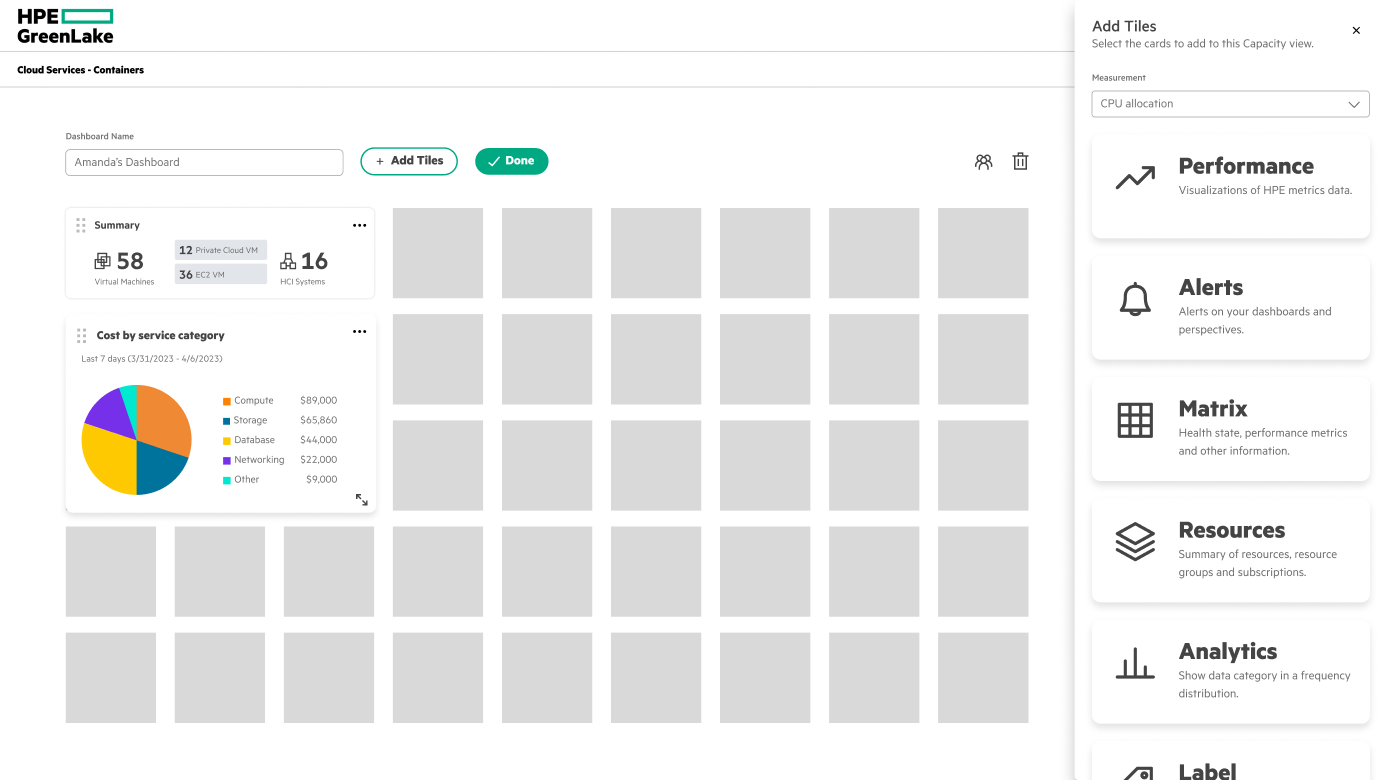
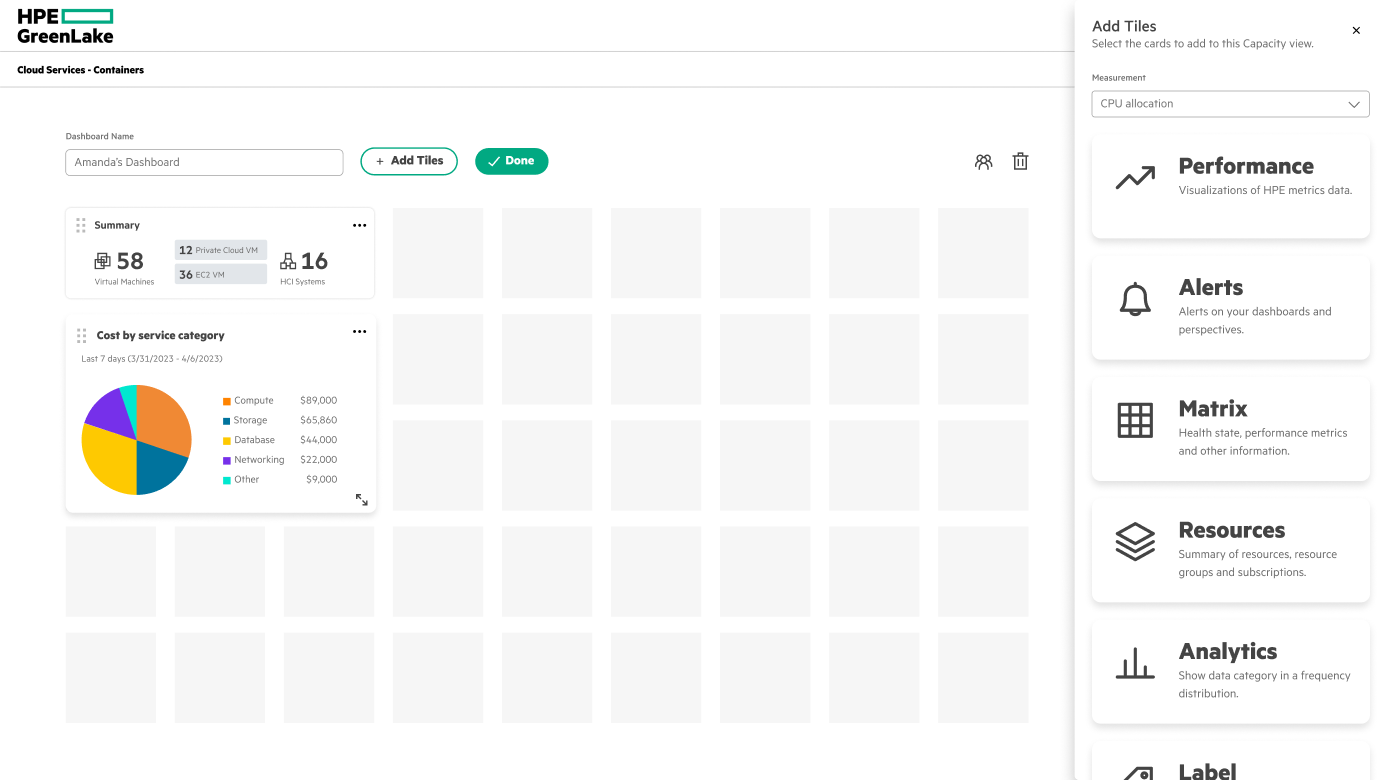
HPE Iterate + Final: v1→v2→v3 rounds with real images; Final showcase = 5 kept-feature video placeholders
- Iterate: Edit dashboard (tiled v1→v2→v3 with feedback/improvements), Color (v1→v2→v3), Style (v1→v2→v3); removed Preferred styling (overlapped Explore); add color/style/edit-v2 images
- Explore: structure adds Direction 3 (full-screen modal)
- Final showcase: rebuilt as the 5 kept capabilities, each a stacked title + full-width video placeholder (videos to come), framed as the customize-dashboard payoff
- Add research.png to participants voices; drop unused slides (final-customize, iterate-add/style/styling); refresh tiled-design/resize 2x

Changed region(s): [[0.031, 0.2462, 0.7441, 0.9538]]

diff --git a/case-study-hpe.html b/case-study-hpe.html
@@ -147,6 +147,9 @@ nav{position:fixed;top:0;left:0;right:0;z-index:300;height:54px;display:flex;ali
 .cs-voice:last-of-type{border-bottom:none;}
 .cs-voice::before{content:'\201C';position:absolute;left:0;top:18px;font-family:var(--font-display);font-size:var(--fs-3xl);font-weight:var(--fw-bold);line-height:.7;color:var(--accent);opacity:.45;}
 .cs-voice p{font-family:var(--font-display);font-size:clamp(var(--fs-md),2.4vw,var(--fs-lg));font-weight:var(--fw-regular);color:var(--ink);line-height:1.32;letter-spacing:-.02em;}
+.cs-voices-people{display:flex;justify-content:center;margin-top:28px;}
+.cs-research-art{width:100%;max-width:600px;height:auto;display:block;mix-blend-mode:multiply;}
+[data-theme="dark"] .cs-research-art{mix-blend-mode:screen;filter:invert(1);}
 .cs-voices-attr{margin-top:18px;display:flex;align-items:center;gap:9px;font-size:var(--fs-xs);font-weight:var(--fw-bold);letter-spacing:.12em;text-transform:uppercase;color:var(--ink-3);}
 .cs-voices-attr::before{content:'';width:22px;height:1.5px;background:var(--accent);flex-shrink:0;}
 
@@ -493,21 +496,34 @@ footer{background:var(--ink);color:var(--bg);padding:48px;display:flex;justify-c
 .cs-section--ondark{border-bottom:none;padding:0 0 392px;
   background:linear-gradient(180deg,
     var(--bg) 0,
-    #cdeae1 84px,#6fccb5 156px,#01A982 232px,#016b51 308px,#022c22 392px,
+    #cdeae1 70px,#9edbcb 108px,#6fccb5 146px,#38bb9c 182px,#01A982 218px,#018a6a 254px,#016b51 288px,#015844 320px,#024638 352px,#023528 374px,#022c22 392px,
     #022c22 calc(100% - 392px),
-    #024638 calc(100% - 274px),#016b51 calc(100% - 188px),#01A982 calc(100% - 116px),#6fccb5 calc(100% - 56px),#cdeae1 calc(100% - 18px),
+    #023528 calc(100% - 374px),#024638 calc(100% - 352px),#015844 calc(100% - 320px),#016b51 calc(100% - 288px),#018a6a calc(100% - 254px),#01A982 calc(100% - 218px),#38bb9c calc(100% - 182px),#6fccb5 calc(100% - 146px),#9edbcb calc(100% - 108px),#cdeae1 calc(100% - 70px),
     var(--bg) 100%);}
 [data-theme="dark"] .cs-section--ondark{
   background:linear-gradient(180deg,
     var(--bg) 0,
-    #04241a 84px,#0a6149 190px,#04503a 278px,#06291e 392px,
-    #06291e calc(100% - 392px),
-    #063a2b calc(100% - 262px),#0a6149 calc(100% - 150px),#04241a calc(100% - 62px),
+    #0a6149 78px,#095338 142px,#07452e 206px,#053826 268px,#052e1f 330px,#04241a 392px,
+    #04241a calc(100% - 392px),
+    #052e1f calc(100% - 330px),#053826 calc(100% - 268px),#07452e calc(100% - 206px),#095338 calc(100% - 142px),#0a6149 calc(100% - 78px),
     var(--bg) 100%);}
 .cs-section--ondark .cs-eyebrow{color:#9fe6cf;text-align:center;}
 .cs-section--ondark .cs-section-title{color:#fff;text-align:center;}
 .cs-section--ondark .cs-section-sub{color:rgba(245,245,245,.82);text-align:center;margin-left:auto;margin-right:auto;}
 .cs-section--ondark .cs-figure{box-shadow:0 20px 54px rgba(0,0,0,.30);}
+/* Final showcase — the 5 kept capabilities, each a video (alternating video/text rows) */
+.cs-final-features{display:flex;flex-direction:column;gap:128px;margin-top:108px;}
+.cs-final-feature{display:flex;flex-direction:column;align-items:center;text-align:center;gap:26px;}
+.cs-final-ftext{order:0;max-width:60ch;}
+.cs-final-media{order:1;width:100%;position:relative;aspect-ratio:16/9;border-radius:14px;overflow:hidden;box-shadow:0 20px 54px rgba(0,0,0,.32);}
+.cs-final-media video{width:100%;height:100%;object-fit:cover;display:block;}
+.cs-final-vph{position:absolute;inset:0;display:flex;flex-direction:column;align-items:center;justify-content:center;gap:12px;background:radial-gradient(120% 120% at 50% 32%,rgba(1,201,154,.16),transparent 60%),#0c1f18;color:rgba(255,255,255,.62);}
+.cs-final-vph svg{width:52px;height:52px;opacity:.75;}
+.cs-final-vph span{font-family:var(--font-mono);font-size:var(--fs-2xs);font-weight:var(--fw-bold);letter-spacing:.16em;text-transform:uppercase;}
+.cs-final-fnum{display:block;font-family:var(--font-mono);font-size:var(--fs-xs);font-weight:var(--fw-bold);letter-spacing:.14em;color:#9fe6cf;margin-bottom:12px;}
+.cs-final-ftitle{font-family:var(--font-display);font-size:clamp(var(--fs-lg),3vw,var(--fs-2xl));font-weight:var(--fw-semibold);letter-spacing:-.02em;line-height:1.1;color:#fff;margin-bottom:14px;}
+.cs-final-fdesc{font-size:var(--fs-base);color:rgba(245,245,245,.80);line-height:1.6;max-width:54ch;margin:0 auto;}
+@media(max-width:760px){.cs-final-features{gap:54px;}.cs-final-feature{gap:18px;}}
 /* showcase content stays hidden until the turn line has shrunk back to its resting spot (class added by JS; no-JS shows it) */
 .cs-section--ondark.final-gated .cs-wrap{opacity:0;transform:translateY(30px);transition:opacity .8s ease,transform .8s cubic-bezier(.22,1,.36,1);}
 .cs-section--ondark.final-gated.is-ready .cs-wrap{opacity:1;transform:none;}
@@ -520,8 +536,8 @@ footer{background:var(--ink);color:var(--bg);padding:48px;display:flex;justify-c
 @media(max-width:767px){
   .cs-turn-band{padding:250px 22px 72px;}
   .cs-section--ondark{padding-bottom:250px;
-    background:linear-gradient(180deg,var(--bg) 0,#cdeae1 58px,#6fccb5 108px,#01A982 158px,#016b51 208px,#022c22 250px,#022c22 calc(100% - 250px),#024638 calc(100% - 174px),#016b51 calc(100% - 118px),#01A982 calc(100% - 72px),#6fccb5 calc(100% - 36px),#cdeae1 calc(100% - 14px),var(--bg) 100%);}
-  [data-theme="dark"] .cs-section--ondark{background:linear-gradient(180deg,var(--bg) 0,#04241a 58px,#0a6149 122px,#04503a 178px,#06291e 250px,#06291e calc(100% - 250px),#063a2b calc(100% - 166px),#0a6149 calc(100% - 94px),#04241a calc(100% - 40px),var(--bg) 100%);}
+    background:linear-gradient(180deg,var(--bg) 0,#cdeae1 44px,#9edbcb 70px,#6fccb5 96px,#38bb9c 120px,#01A982 144px,#018a6a 168px,#016b51 190px,#015844 212px,#024638 232px,#023528 244px,#022c22 250px,#022c22 calc(100% - 250px),#023528 calc(100% - 244px),#024638 calc(100% - 232px),#015844 calc(100% - 212px),#016b51 calc(100% - 190px),#018a6a calc(100% - 168px),#01A982 calc(100% - 144px),#38bb9c calc(100% - 120px),#6fccb5 calc(100% - 96px),#9edbcb calc(100% - 70px),#cdeae1 calc(100% - 44px),var(--bg) 100%);}
+  [data-theme="dark"] .cs-section--ondark{background:linear-gradient(180deg,var(--bg) 0,#0a6149 50px,#095338 96px,#07452e 144px,#053826 196px,#04241a 250px,#04241a calc(100% - 250px),#053826 calc(100% - 196px),#07452e calc(100% - 144px),#095338 calc(100% - 96px),#0a6149 calc(100% - 50px),var(--bg) 100%);}
 }
 .cs-figure{margin:28px 0 0;border-radius:16px;border:1px solid var(--border);background:var(--surf);overflow:hidden;transition:background .4s,border-color .3s,transform .25s cubic-bezier(.22,1,.36,1);}
 .cs-figure:hover{transform:translateY(-2px);border-color:var(--border-h);}
@@ -564,7 +580,7 @@ footer{background:var(--ink);color:var(--bg);padding:48px;display:flex;justify-c
 .cs-iter-block:first-of-type{margin-top:28px;}
 .cs-iter-block-title{font-size:var(--fs-md);font-weight:var(--fw-semibold);color:var(--ink);letter-spacing:-.02em;line-height:1.2;margin-bottom:6px;}
 .cs-iter-block-title .cs-iter-block-round{display:inline-block;font-family:var(--font-mono);font-size:var(--fs-xs);font-weight:var(--fw-bold);letter-spacing:.1em;text-transform:uppercase;color:var(--accent);margin-right:10px;vertical-align:middle;}
-.cs-iter-block-text{font-size:var(--fs-sm);color:var(--ink-2);line-height:1.6;max-width:64ch;margin-bottom:4px;}
+.cs-iter-block-text{font-size:var(--p1-size);color:var(--ink-2);line-height:var(--p1-line);max-width:64ch;margin-bottom:4px;}
 .cs-iter-versions{display:flex;gap:20px;margin-top:20px;overflow-x:auto;overflow-y:hidden;padding:4px 4px 20px;scroll-snap-type:x mandatory;-webkit-overflow-scrolling:touch;scrollbar-width:thin;scrollbar-color:var(--border-h,#ccc) transparent;}
 .cs-iter-versions::-webkit-scrollbar{height:8px;}
 .cs-iter-versions::-webkit-scrollbar-track{background:transparent;}
@@ -876,7 +892,9 @@ transition:opacity .35s ease,transform .3s cubic-bezier(.22,1,.36,1);}
           <div class="cs-voice"><p>I should be able to add and remove charts myself.</p></div>
           <div class="cs-voice"><p>Can I change the colors and styling to my own preference?</p></div>
         </div>
-        <div class="cs-voices-attr reveal">Usability&#8209;test participants, pre&#8209;internship</div>
+        <div class="cs-voices-people reveal" aria-hidden="true">
+          <img src="assets/images/hpe/research.png" alt="" loading="lazy" class="cs-research-art">
+        </div>
 
         <div class="cs-sub reveal">
           <div class="cs-sub-label">The challenge</div>
@@ -1074,8 +1092,6 @@ transition:opacity .35s ease,transform .3s cubic-bezier(.22,1,.36,1);}
 
         <div class="cs-sub reveal">
           <div class="cs-sub-label">My iterations</div>
-          <div class="cs-sub-title">Cutting choices until they helped</div>
-          <div class="cs-sub-text">Across the rounds I reworked the customization flows. The pattern repeated: a critique would flag that I&rsquo;d given users <em>too much</em>, and the fix was almost always to constrain the options and add a visual cue.</div>
 
           <!-- Each round is a v1 → v2 carousel. To swap a placeholder for the real high-fidelity
                prototype screen, replace the `.cs-iter-version-img--ph` block with:
@@ -1091,19 +1107,8 @@ transition:opacity .35s ease,transform .3s cubic-bezier(.22,1,.36,1);}
           <!-- Round 1 · Edit dashboard -->
           <div class="cs-iter-block reveal">
             <div class="cs-iter-block-title">Edit dashboard</div>
-            <p class="cs-iter-block-text">For the edit canvas I built two structures as separate iterations &mdash; a freeform layout where charts go anywhere, and a tiled, snap&#8209;to&#8209;grid layout. Tiled won: it keeps the dashboard legible however it&rsquo;s filled, without the responsiveness and alignment issues freeform introduced.</p>
+            <p class="cs-iter-block-text">For the edit canvas I explored three directions &mdash; freeform, tiled, and a full&#8209;screen add&#8209;charts modal &mdash; and out of the first stakeholder meeting committed to tiled. From there it took three passes. v1: the grid stopped dead at the bottom, so users couldn&rsquo;t tell they could add more cards. v2 removed the header for a focused view and ran the grid past the window edge to signal room below &mdash; but the save button could overlap the charts, and new charts dropped in at 1&times;1 instead of 3&times;3. v3 fixed the layout: bigger default grid squares, the save button moved to the top right, and share / delete&#8209;dashboard pulled out of edit mode.</p>
             <div class="cs-iter-versions">
-              <figure class="cs-iter-version">
-                <div class="cs-iter-version-img" style="aspect-ratio:16/9;">
-                  <button class="cs-iter-zoom-out-btn" type="button" aria-label="Reset zoom"><svg viewBox="0 0 16 16" fill="none" stroke="currentColor" stroke-width="1.8" stroke-linecap="round" stroke-linejoin="round" aria-hidden="true"><path d="M2 8a6 6 0 1 0 1.7-4.2"/><polyline points="2 1.5 2 4 4.5 4"/></svg></button>
-                  <span class="cs-iter-zoom-hint" aria-hidden="true">
-                    <svg class="icon-zoom-in" viewBox="0 0 16 16" fill="none" stroke="currentColor" stroke-width="1.8" stroke-linecap="round" stroke-linejoin="round"><circle cx="7" cy="7" r="5"/><path d="M11 11l3 3"/><path d="M7 4.5v5M4.5 7h5"/></svg>
-                    <svg class="icon-zoom-out" viewBox="0 0 16 16" fill="none" stroke="currentColor" stroke-width="1.8" stroke-linecap="round" stroke-linejoin="round"><circle cx="7" cy="7" r="5"/><path d="M11 11l3 3"/><path d="M4.5 7h5"/></svg>
-                  </span>
-                  <img src="assets/images/hpe/freeform-structure.png" alt="Freeform edit canvas — charts dropped anywhere on the dashboard" loading="lazy" onload="this.classList.add('is-loaded')">
-                </div>
-                <figcaption class="cs-iter-version-label"><span class="cs-iter-version-label-tag">v1</span>Freeform &mdash; charts placed anywhere</figcaption>
-              </figure>
               <figure class="cs-iter-version">
                 <div class="cs-iter-version-img" style="aspect-ratio:16/9;">
                   <button class="cs-iter-zoom-out-btn" type="button" aria-label="Reset zoom"><svg viewBox="0 0 16 16" fill="none" stroke="currentColor" stroke-width="1.8" stroke-linecap="round" stroke-linejoin="round" aria-hidden="true"><path d="M2 8a6 6 0 1 0 1.7-4.2"/><polyline points="2 1.5 2 4 4.5 4"/></svg></button>
@@ -1113,47 +1118,70 @@ transition:opacity .35s ease,transform .3s cubic-bezier(.22,1,.36,1);}
                   </span>
                   <img src="assets/images/hpe/tiled-design.png" alt="Tiled edit grid — charts snapped into a structured tiled layout" loading="lazy" onload="this.classList.add('is-loaded')">
                 </div>
-                <figcaption class="cs-iter-version-label"><span class="cs-iter-version-label-tag">v2</span>Tiled &mdash; snap&#8209;to&#8209;grid structure</figcaption>
+                <figcaption class="cs-iter-version-label"><span class="cs-iter-version-label-tag">v1</span>Grid stops at the bottom &mdash; no cue to add more</figcaption>
+              </figure>
+              <figure class="cs-iter-version">
+                <div class="cs-iter-version-img" style="aspect-ratio:16/9;">
+                  <button class="cs-iter-zoom-out-btn" type="button" aria-label="Reset zoom"><svg viewBox="0 0 16 16" fill="none" stroke="currentColor" stroke-width="1.8" stroke-linecap="round" stroke-linejoin="round" aria-hidden="true"><path d="M2 8a6 6 0 1 0 1.7-4.2"/><polyline points="2 1.5 2 4 4.5 4"/></svg></button>
+                  <span class="cs-iter-zoom-hint" aria-hidden="true">
+                    <svg class="icon-zoom-in" viewBox="0 0 16 16" fill="none" stroke="currentColor" stroke-width="1.8" stroke-linecap="round" stroke-linejoin="round"><circle cx="7" cy="7" r="5"/><path d="M11 11l3 3"/><path d="M7 4.5v5M4.5 7h5"/></svg>
+                    <svg class="icon-zoom-out" viewBox="0 0 16 16" fill="none" stroke="currentColor" stroke-width="1.8" stroke-linecap="round" stroke-linejoin="round"><circle cx="7" cy="7" r="5"/><path d="M11 11l3 3"/><path d="M4.5 7h5"/></svg>
+                  </span>
+                  <img src="assets/images/hpe/edit-v2.png" alt="Edit dashboard v2 — header removed for a focused view, the tiled grid extending past the window edge to signal more space below" loading="lazy" onload="this.classList.add('is-loaded')">
+                </div>
+                <figcaption class="cs-iter-version-label"><span class="cs-iter-version-label-tag">v2</span>Header removed; grid runs past the edge</figcaption>
+              </figure>
+              <figure class="cs-iter-version">
+                <div class="cs-iter-version-img" style="aspect-ratio:16/9;">
+                  <button class="cs-iter-zoom-out-btn" type="button" aria-label="Reset zoom"><svg viewBox="0 0 16 16" fill="none" stroke="currentColor" stroke-width="1.8" stroke-linecap="round" stroke-linejoin="round" aria-hidden="true"><path d="M2 8a6 6 0 1 0 1.7-4.2"/><polyline points="2 1.5 2 4 4.5 4"/></svg></button>
+                  <span class="cs-iter-zoom-hint" aria-hidden="true">
+                    <svg class="icon-zoom-in" viewBox="0 0 16 16" fill="none" stroke="currentColor" stroke-width="1.8" stroke-linecap="round" stroke-linejoin="round"><circle cx="7" cy="7" r="5"/><path d="M11 11l3 3"/><path d="M7 4.5v5M4.5 7h5"/></svg>
+                    <svg class="icon-zoom-out" viewBox="0 0 16 16" fill="none" stroke="currentColor" stroke-width="1.8" stroke-linecap="round" stroke-linejoin="round"><circle cx="7" cy="7" r="5"/><path d="M11 11l3 3"/><path d="M4.5 7h5"/></svg>
+                  </span>
+                  <img src="assets/images/hpe/final-edit.png" alt="Final tiled edit dashboard — the shipped edit-mode layout" loading="lazy" onload="this.classList.add('is-loaded')">
+                </div>
+                <figcaption class="cs-iter-version-label"><span class="cs-iter-version-label-tag">v3</span>Final &mdash; resized grid, save &amp; actions relocated</figcaption>
               </figure>
             </div>
           </div>
 
-          <!-- Round 2 · Preferred styling -->
-          <div class="cs-iter-block reveal">
-            <div class="cs-iter-block-title">Preferred styling</div>
-            <p class="cs-iter-block-text">Applying one style across many charts at once was risky on a shared, public dashboard &mdash; and there was no version history to undo it. I shifted focus to customizing individual charts, with radio buttons since you can only pick one palette at a time.</p>
-            <div class="cs-iter-versions">
-              <figure class="cs-iter-version">
-                <div class="cs-iter-version-img cs-iter-version-img--ph" style="aspect-ratio:16/10;">
-                  <div class="cs-iter-ph"><span class="cs-iter-ph-icon">&#128247;</span><span class="cs-iter-ph-label">v1 prototype</span><span class="cs-iter-ph-sub">Widespread styling across charts via a side drawer</span></div>
-                </div>
-                <figcaption class="cs-iter-version-label"><span class="cs-iter-version-label-tag">v1</span>Before &mdash; multi&#8209;chart side drawer</figcaption>
-              </figure>
-              <figure class="cs-iter-version">
-                <div class="cs-iter-version-img cs-iter-version-img--ph" style="aspect-ratio:16/10;">
-                  <div class="cs-iter-ph"><span class="cs-iter-ph-icon">&#128247;</span><span class="cs-iter-ph-label">v2 prototype</span><span class="cs-iter-ph-sub">Single&#8209;chart focus with radio&#8209;button palettes</span></div>
-                </div>
-                <figcaption class="cs-iter-version-label"><span class="cs-iter-version-label-tag">v2</span>After &mdash; single&#8209;chart focus</figcaption>
-              </figure>
-            </div>
-          </div>
-
-          <!-- Round 2 · Color customization -->
+          <!-- Color customization -->
           <div class="cs-iter-block reveal">
             <div class="cs-iter-block-title">Color customization</div>
-            <p class="cs-iter-block-text">&ldquo;Qualitative&rdquo; and &ldquo;sequential&rdquo; confused people, and the header offered too many ways to navigate away mid&#8209;task. I renamed them to <em>contrast</em> and <em>gradient</em>, added swatch previews, and dropped the header into a full&#8209;screen modal.</p>
+            <p class="cs-iter-block-text">Three passes, each gated by a critique. v1&rsquo;s palette names (&lsquo;qualitative&rsquo;, &lsquo;sequential&rsquo;) confused people, and its headers offered too many ways to wander off mid&#8209;task. v2 renamed them to <em>contrast</em> and <em>gradient</em>, added swatch previews, and dropped the header into a full&#8209;screen modal. A second meeting flagged that more than four options still overwhelmed users &mdash; and that the controls should reuse one select component &mdash; so v3 folded the previews into that select and turned texture and shading into simple toggles.</p>
             <div class="cs-iter-versions">
               <figure class="cs-iter-version">
-                <div class="cs-iter-version-img cs-iter-version-img--ph" style="aspect-ratio:16/10;">
-                  <div class="cs-iter-ph"><span class="cs-iter-ph-icon">&#128247;</span><span class="cs-iter-ph-label">v1 prototype</span><span class="cs-iter-ph-sub">Complex palette names with no visual identifier</span></div>
+                <div class="cs-iter-version-img" style="aspect-ratio:16/9;">
+                  <button class="cs-iter-zoom-out-btn" type="button" aria-label="Reset zoom"><svg viewBox="0 0 16 16" fill="none" stroke="currentColor" stroke-width="1.8" stroke-linecap="round" stroke-linejoin="round" aria-hidden="true"><path d="M2 8a6 6 0 1 0 1.7-4.2"/><polyline points="2 1.5 2 4 4.5 4"/></svg></button>
+                  <span class="cs-iter-zoom-hint" aria-hidden="true">
+                    <svg class="icon-zoom-in" viewBox="0 0 16 16" fill="none" stroke="currentColor" stroke-width="1.8" stroke-linecap="round" stroke-linejoin="round"><circle cx="7" cy="7" r="5"/><path d="M11 11l3 3"/><path d="M7 4.5v5M4.5 7h5"/></svg>
+                    <svg class="icon-zoom-out" viewBox="0 0 16 16" fill="none" stroke="currentColor" stroke-width="1.8" stroke-linecap="round" stroke-linejoin="round"><circle cx="7" cy="7" r="5"/><path d="M11 11l3 3"/><path d="M4.5 7h5"/></svg>
+                  </span>
+                  <img src="assets/images/hpe/color-v1.png" alt="Color customization v1 — jargon palette names and interrupting page headers" loading="lazy" onload="this.classList.add('is-loaded')">
                 </div>
-                <figcaption class="cs-iter-version-label"><span class="cs-iter-version-label-tag">v1</span>Before &mdash; jargon palette names</figcaption>
+                <figcaption class="cs-iter-version-label"><span class="cs-iter-version-label-tag">v1</span>Confusing names, interrupting headers</figcaption>
               </figure>
               <figure class="cs-iter-version">
-                <div class="cs-iter-version-img cs-iter-version-img--ph" style="aspect-ratio:16/10;">
-                  <div class="cs-iter-ph"><span class="cs-iter-ph-icon">&#128247;</span><span class="cs-iter-ph-label">v2 prototype</span><span class="cs-iter-ph-sub">Plain&#8209;language palettes with swatch previews</span></div>
+                <div class="cs-iter-version-img" style="aspect-ratio:16/9;">
+                  <button class="cs-iter-zoom-out-btn" type="button" aria-label="Reset zoom"><svg viewBox="0 0 16 16" fill="none" stroke="currentColor" stroke-width="1.8" stroke-linecap="round" stroke-linejoin="round" aria-hidden="true"><path d="M2 8a6 6 0 1 0 1.7-4.2"/><polyline points="2 1.5 2 4 4.5 4"/></svg></button>
+                  <span class="cs-iter-zoom-hint" aria-hidden="true">
+                    <svg class="icon-zoom-in" viewBox="0 0 16 16" fill="none" stroke="currentColor" stroke-width="1.8" stroke-linecap="round" stroke-linejoin="round"><circle cx="7" cy="7" r="5"/><path d="M11 11l3 3"/><path d="M7 4.5v5M4.5 7h5"/></svg>
+                    <svg class="icon-zoom-out" viewBox="0 0 16 16" fill="none" stroke="currentColor" stroke-width="1.8" stroke-linecap="round" stroke-linejoin="round"><circle cx="7" cy="7" r="5"/><path d="M11 11l3 3"/><path d="M4.5 7h5"/></svg>
+                  </span>
+                  <img src="assets/images/hpe/color-v2.png" alt="Color customization v2 — renamed palettes with swatch previews in a full-screen modal" loading="lazy" onload="this.classList.add('is-loaded')">
                 </div>
-                <figcaption class="cs-iter-version-label"><span class="cs-iter-version-label-tag">v2</span>After &mdash; previews &amp; plain language</figcaption>
+                <figcaption class="cs-iter-version-label"><span class="cs-iter-version-label-tag">v2</span>Renamed, previewed, full&#8209;screen modal</figcaption>
+              </figure>
+              <figure class="cs-iter-version">
+                <div class="cs-iter-version-img" style="aspect-ratio:16/9;">
+                  <button class="cs-iter-zoom-out-btn" type="button" aria-label="Reset zoom"><svg viewBox="0 0 16 16" fill="none" stroke="currentColor" stroke-width="1.8" stroke-linecap="round" stroke-linejoin="round" aria-hidden="true"><path d="M2 8a6 6 0 1 0 1.7-4.2"/><polyline points="2 1.5 2 4 4.5 4"/></svg></button>
+                  <span class="cs-iter-zoom-hint" aria-hidden="true">
+                    <svg class="icon-zoom-in" viewBox="0 0 16 16" fill="none" stroke="currentColor" stroke-width="1.8" stroke-linecap="round" stroke-linejoin="round"><circle cx="7" cy="7" r="5"/><path d="M11 11l3 3"/><path d="M7 4.5v5M4.5 7h5"/></svg>
+                    <svg class="icon-zoom-out" viewBox="0 0 16 16" fill="none" stroke="currentColor" stroke-width="1.8" stroke-linecap="round" stroke-linejoin="round"><circle cx="7" cy="7" r="5"/><path d="M11 11l3 3"/><path d="M4.5 7h5"/></svg>
+                  </span>
+                  <img src="assets/images/hpe/final-color.png" alt="Color customization v3 — previews inside the select component, texture and shading as toggles" loading="lazy" onload="this.classList.add('is-loaded')">
+                </div>
+                <figcaption class="cs-iter-version-label"><span class="cs-iter-version-label-tag">v3</span>Final &mdash; one select, toggle controls</figcaption>
               </figure>
             </div>
           </div>
@@ -1161,19 +1189,40 @@ transition:opacity .35s ease,transform .3s cubic-bezier(.22,1,.36,1);}
           <!-- Round 3 · Style-series customization -->
           <div class="cs-iter-block reveal">
             <div class="cs-iter-block-title">Style&#8209;series customization</div>
-            <p class="cs-iter-block-text">Too many line&#8209;weight options made users stress over the choice, and there were no visual cues. I cut it to three weights, each with a preview &mdash; so a choice took a glance, not a guess.</p>
+            <p class="cs-iter-block-text">Three passes. v1 piled on options &mdash; so many that users stalled on the choice. v2 cut scope: I dropped adding multiple line charts (data&#8209;dependent, out of scope) and the advanced axis, legend, and threshold controls. A second meeting flagged the options still lacked visual identifiers, meaning more clicking to see what each did. v3 settled it: a full&#8209;screen modal with just enough &mdash; line weight limited to three labeled options, with visual previews inside the select.</p>
             <div class="cs-iter-versions">
               <figure class="cs-iter-version">
-                <div class="cs-iter-version-img cs-iter-version-img--ph" style="aspect-ratio:16/10;">
-                  <div class="cs-iter-ph"><span class="cs-iter-ph-icon">&#128247;</span><span class="cs-iter-ph-label">v1 prototype</span><span class="cs-iter-ph-sub">Many line&#8209;weight options, no visual cues</span></div>
+                <div class="cs-iter-version-img" style="aspect-ratio:16/9;">
+                  <button class="cs-iter-zoom-out-btn" type="button" aria-label="Reset zoom"><svg viewBox="0 0 16 16" fill="none" stroke="currentColor" stroke-width="1.8" stroke-linecap="round" stroke-linejoin="round" aria-hidden="true"><path d="M2 8a6 6 0 1 0 1.7-4.2"/><polyline points="2 1.5 2 4 4.5 4"/></svg></button>
+                  <span class="cs-iter-zoom-hint" aria-hidden="true">
+                    <svg class="icon-zoom-in" viewBox="0 0 16 16" fill="none" stroke="currentColor" stroke-width="1.8" stroke-linecap="round" stroke-linejoin="round"><circle cx="7" cy="7" r="5"/><path d="M11 11l3 3"/><path d="M7 4.5v5M4.5 7h5"/></svg>
+                    <svg class="icon-zoom-out" viewBox="0 0 16 16" fill="none" stroke="currentColor" stroke-width="1.8" stroke-linecap="round" stroke-linejoin="round"><circle cx="7" cy="7" r="5"/><path d="M11 11l3 3"/><path d="M4.5 7h5"/></svg>
+                  </span>
+                  <img src="assets/images/hpe/style-v1.png" alt="Style-series v1 — too many options for line weight, axis, legend, and threshold" loading="lazy" onload="this.classList.add('is-loaded')">
                 </div>
-                <figcaption class="cs-iter-version-label"><span class="cs-iter-version-label-tag">v1</span>Before &mdash; overloaded weight picker</figcaption>
+                <figcaption class="cs-iter-version-label"><span class="cs-iter-version-label-tag">v1</span>Too many options, decision stress</figcaption>
               </figure>
               <figure class="cs-iter-version">
-                <div class="cs-iter-version-img cs-iter-version-img--ph" style="aspect-ratio:16/10;">
-                  <div class="cs-iter-ph"><span class="cs-iter-ph-icon">&#128247;</span><span class="cs-iter-ph-label">v2 prototype</span><span class="cs-iter-ph-sub">Three weights, each with a preview</span></div>
+                <div class="cs-iter-version-img" style="aspect-ratio:16/9;">
+                  <button class="cs-iter-zoom-out-btn" type="button" aria-label="Reset zoom"><svg viewBox="0 0 16 16" fill="none" stroke="currentColor" stroke-width="1.8" stroke-linecap="round" stroke-linejoin="round" aria-hidden="true"><path d="M2 8a6 6 0 1 0 1.7-4.2"/><polyline points="2 1.5 2 4 4.5 4"/></svg></button>
+                  <span class="cs-iter-zoom-hint" aria-hidden="true">
+                    <svg class="icon-zoom-in" viewBox="0 0 16 16" fill="none" stroke="currentColor" stroke-width="1.8" stroke-linecap="round" stroke-linejoin="round"><circle cx="7" cy="7" r="5"/><path d="M11 11l3 3"/><path d="M7 4.5v5M4.5 7h5"/></svg>
+                    <svg class="icon-zoom-out" viewBox="0 0 16 16" fill="none" stroke="currentColor" stroke-width="1.8" stroke-linecap="round" stroke-linejoin="round"><circle cx="7" cy="7" r="5"/><path d="M11 11l3 3"/><path d="M4.5 7h5"/></svg>
+                  </span>
+                  <img src="assets/images/hpe/style-v2.png" alt="Style-series v2 — scope cut to remove multi-chart styling and advanced axis/legend/threshold controls" loading="lazy" onload="this.classList.add('is-loaded')">
                 </div>
-                <figcaption class="cs-iter-version-label"><span class="cs-iter-version-label-tag">v2</span>After &mdash; three previewed weights</figcaption>
+                <figcaption class="cs-iter-version-label"><span class="cs-iter-version-label-tag">v2</span>Scope cut &mdash; advanced controls removed</figcaption>
+              </figure>
+              <figure class="cs-iter-version">
+                <div class="cs-iter-version-img" style="aspect-ratio:16/9;">
+                  <button class="cs-iter-zoom-out-btn" type="button" aria-label="Reset zoom"><svg viewBox="0 0 16 16" fill="none" stroke="currentColor" stroke-width="1.8" stroke-linecap="round" stroke-linejoin="round" aria-hidden="true"><path d="M2 8a6 6 0 1 0 1.7-4.2"/><polyline points="2 1.5 2 4 4.5 4"/></svg></button>
+                  <span class="cs-iter-zoom-hint" aria-hidden="true">
+                    <svg class="icon-zoom-in" viewBox="0 0 16 16" fill="none" stroke="currentColor" stroke-width="1.8" stroke-linecap="round" stroke-linejoin="round"><circle cx="7" cy="7" r="5"/><path d="M11 11l3 3"/><path d="M7 4.5v5M4.5 7h5"/></svg>
+                    <svg class="icon-zoom-out" viewBox="0 0 16 16" fill="none" stroke="currentColor" stroke-width="1.8" stroke-linecap="round" stroke-linejoin="round"><circle cx="7" cy="7" r="5"/><path d="M11 11l3 3"/><path d="M4.5 7h5"/></svg>
+                  </span>
+                  <img src="assets/images/hpe/style-v3.png" alt="Style-series v3 — full-screen modal with three labeled line-weight options and visual previews in the select" loading="lazy" onload="this.classList.add('is-loaded')">
+                </div>
+                <figcaption class="cs-iter-version-label"><span class="cs-iter-version-label-tag">v3</span>Final &mdash; 3 labeled weights with previews</figcaption>
               </figure>
             </div>
           </div>
@@ -1192,34 +1241,67 @@ transition:opacity .35s ease,transform .3s cubic-bezier(.22,1,.36,1);}
       <div class="cs-wrap">
         <span class="cs-eyebrow">Final &middot; Showcase</span>
         <h2 class="cs-section-title">A modular,<br>high&#8209;fidelity dashboard</h2>
-        <p class="cs-section-sub reveal">The payoff was a clean Consumption Analytics dashboard where every chart is a tile you can move, resize, expand, and customize &mdash; built on the system we&rsquo;d narrowed our way toward. We demoed it on August 3rd.</p>
+        <p class="cs-section-sub reveal">It all grew from one starting idea &mdash; let people <em>customize their dashboard</em>. Narrowing settled on five capabilities to do well: a tiled layout, resize, expand, color, and style. Here&rsquo;s each one in motion &mdash; we demoed it on August 3rd.</p>
 
-        <!-- Edit dashboard -->
-        <figure class="cs-figure reveal">
-          <img src="assets/images/hpe/final-edit.png" alt="Edit-dashboard mode — a tiled grid with add-charts and save actions and per-tile customize, resize, and remove menus" loading="lazy">
-          <figcaption><strong>Edit dashboard.</strong> Name the dashboard, set a time period, drop charts onto a tiled grid, and reach customize / resize / remove from each tile&rsquo;s menu.</figcaption>
-        </figure>
+        <!-- The 5 kept capabilities, each a video. To add a clip, replace a .cs-final-vph placeholder with:
+             <video src="assets/videos/hpe/<name>.mov" muted loop playsinline preload="metadata"></video> -->
+        <div class="cs-final-features">
 
-        <div class="cs-figrow reveal">
-          <figure class="cs-figure">
-            <img src="assets/images/hpe/expand.png" alt="Expand chart view — a chart opened to full screen to reveal hard-to-see detail" loading="lazy">
-            <figcaption><strong>Expand chart view.</strong> Open any chart to full screen to read the detail that&rsquo;s hard to see inside a tile.</figcaption>
-          </figure>
-          <figure class="cs-figure">
-            <img src="assets/images/hpe/resize.png" alt="Resize charts — a tile dragged to a larger size on the dashboard grid" loading="lazy">
-            <figcaption><strong>Resize charts.</strong> Drag a tile larger or smaller so the charts that matter get the room they need.</figcaption>
-          </figure>
-        </div>
+          <div class="cs-final-feature reveal">
+            <div class="cs-final-media">
+              <div class="cs-final-vph"><svg viewBox="0 0 24 24" fill="none" stroke="currentColor" stroke-width="1.4" aria-hidden="true"><circle cx="12" cy="12" r="9.5"/><path d="M10 8.4l6 3.6-6 3.6z" fill="currentColor" stroke="none"/></svg><span>Video coming</span></div>
+            </div>
+            <div class="cs-final-ftext">
+              <span class="cs-final-fnum">01 &middot; Kept</span>
+              <h3 class="cs-final-ftitle">Tiled design</h3>
+              <p class="cs-final-fdesc">Charts live as tiles on a snap&#8209;to&#8209;grid canvas you arrange and edit in place &mdash; the structure every other capability builds on.</p>
+            </div>
+          </div>
 
-        <div class="cs-figrow reveal">
-          <figure class="cs-figure">
-            <img src="assets/images/hpe/final-color.png" alt="Color customization panel with plain-language palette options and swatch previews" loading="lazy">
-            <figcaption><strong>Color customization.</strong> Plain&#8209;language palettes &mdash; contrast vs. gradient &mdash; with swatch previews, shading and texture as simple toggles.</figcaption>
-          </figure>
-          <figure class="cs-figure">
-            <img src="assets/images/hpe/final-customize.png" alt="Style customization — style-series controls for line weight and interpolation, each with a visual preview" loading="lazy">
-            <figcaption><strong>Style customization.</strong> Per&#8209;chart style series &mdash; constrained line&#8209;weight and interpolation options, each with a visual preview.</figcaption>
-          </figure>
+          <div class="cs-final-feature reveal">
+            <div class="cs-final-media">
+              <div class="cs-final-vph"><svg viewBox="0 0 24 24" fill="none" stroke="currentColor" stroke-width="1.4" aria-hidden="true"><circle cx="12" cy="12" r="9.5"/><path d="M10 8.4l6 3.6-6 3.6z" fill="currentColor" stroke="none"/></svg><span>Video coming</span></div>
+            </div>
+            <div class="cs-final-ftext">
+              <span class="cs-final-fnum">02 &middot; Kept</span>
+              <h3 class="cs-final-ftitle">Resize charts</h3>
+              <p class="cs-final-fdesc">Drag a tile larger or smaller so the charts that matter get the room they need.</p>
+            </div>
+          </div>
+
+          <div class="cs-final-feature reveal">
+            <div class="cs-final-media">
+              <div class="cs-final-vph"><svg viewBox="0 0 24 24" fill="none" stroke="currentColor" stroke-width="1.4" aria-hidden="true"><circle cx="12" cy="12" r="9.5"/><path d="M10 8.4l6 3.6-6 3.6z" fill="currentColor" stroke="none"/></svg><span>Video coming</span></div>
+            </div>
+            <div class="cs-final-ftext">
+              <span class="cs-final-fnum">03 &middot; Kept</span>
+              <h3 class="cs-final-ftitle">Expand charts</h3>
+              <p class="cs-final-fdesc">Open any chart to full screen to read the detail that&rsquo;s hard to see inside a tile.</p>
+            </div>
+          </div>
+
+          <div class="cs-final-feature reveal">
+            <div class="cs-final-media">
+              <div class="cs-final-vph"><svg viewBox="0 0 24 24" fill="none" stroke="currentColor" stroke-width="1.4" aria-hidden="true"><circle cx="12" cy="12" r="9.5"/><path d="M10 8.4l6 3.6-6 3.6z" fill="currentColor" stroke="none"/></svg><span>Video coming</span></div>
+            </div>
+            <div class="cs-final-ftext">
+              <span class="cs-final-fnum">04 &middot; Kept</span>
+              <h3 class="cs-final-ftitle">Color customization</h3>
+              <p class="cs-final-fdesc">Recolor charts with plain&#8209;language palettes &mdash; contrast vs. gradient &mdash; and live swatch previews.</p>
+            </div>
+          </div>
+
+          <div class="cs-final-feature reveal">
+            <div class="cs-final-media">
+              <div class="cs-final-vph"><svg viewBox="0 0 24 24" fill="none" stroke="currentColor" stroke-width="1.4" aria-hidden="true"><circle cx="12" cy="12" r="9.5"/><path d="M10 8.4l6 3.6-6 3.6z" fill="currentColor" stroke="none"/></svg><span>Video coming</span></div>
+            </div>
+            <div class="cs-final-ftext">
+              <span class="cs-final-fnum">05 &middot; Kept</span>
+              <h3 class="cs-final-ftitle">Style customization</h3>
+              <p class="cs-final-fdesc">Tune line weight and interpolation per chart, each option with a visual preview.</p>
+            </div>
+          </div>
+
         </div>
       </div>
     </section>